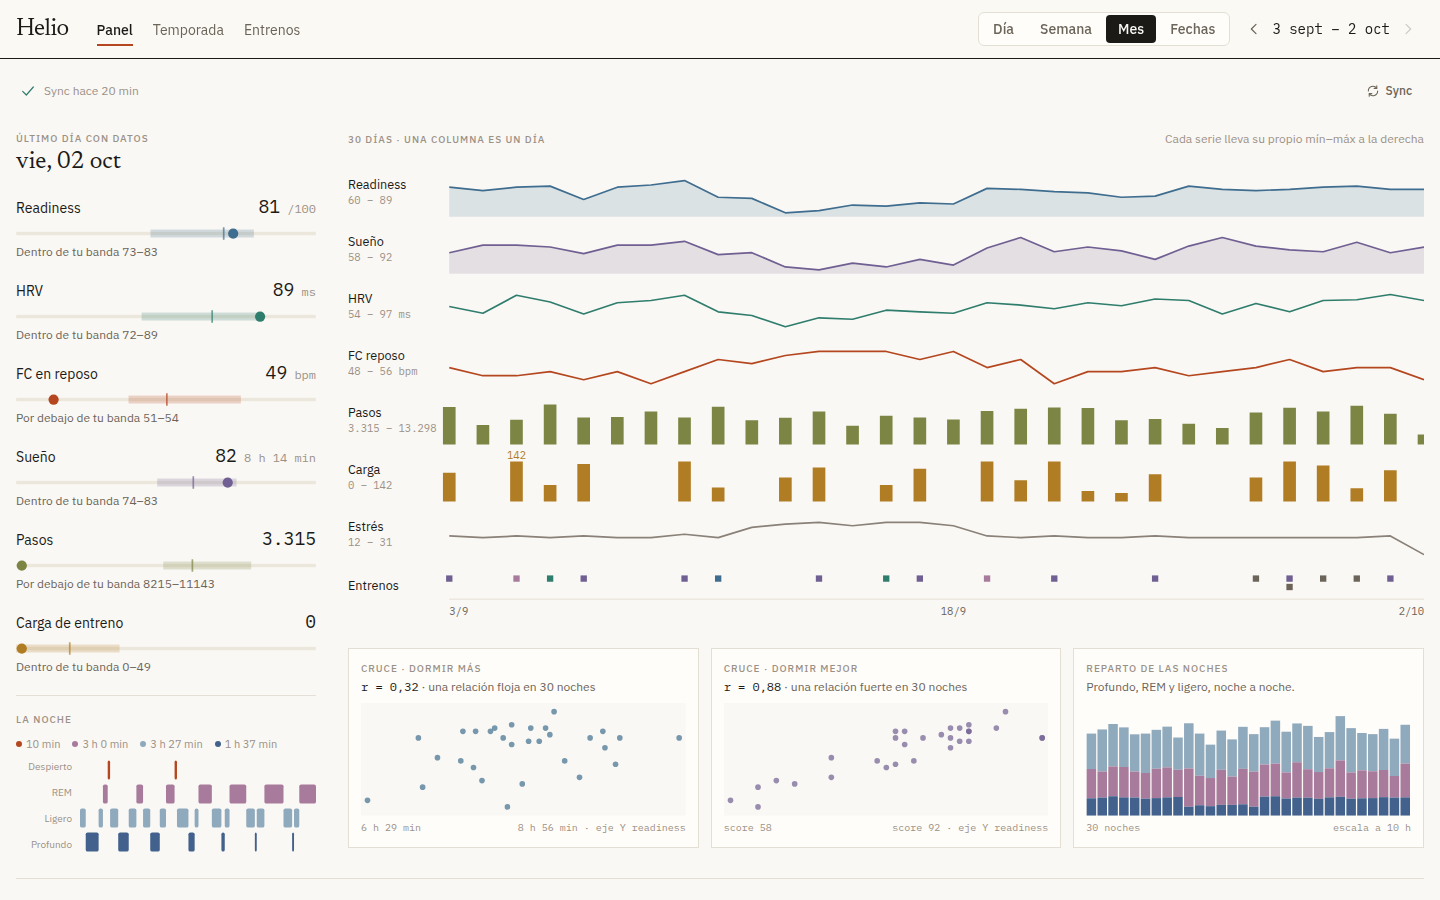
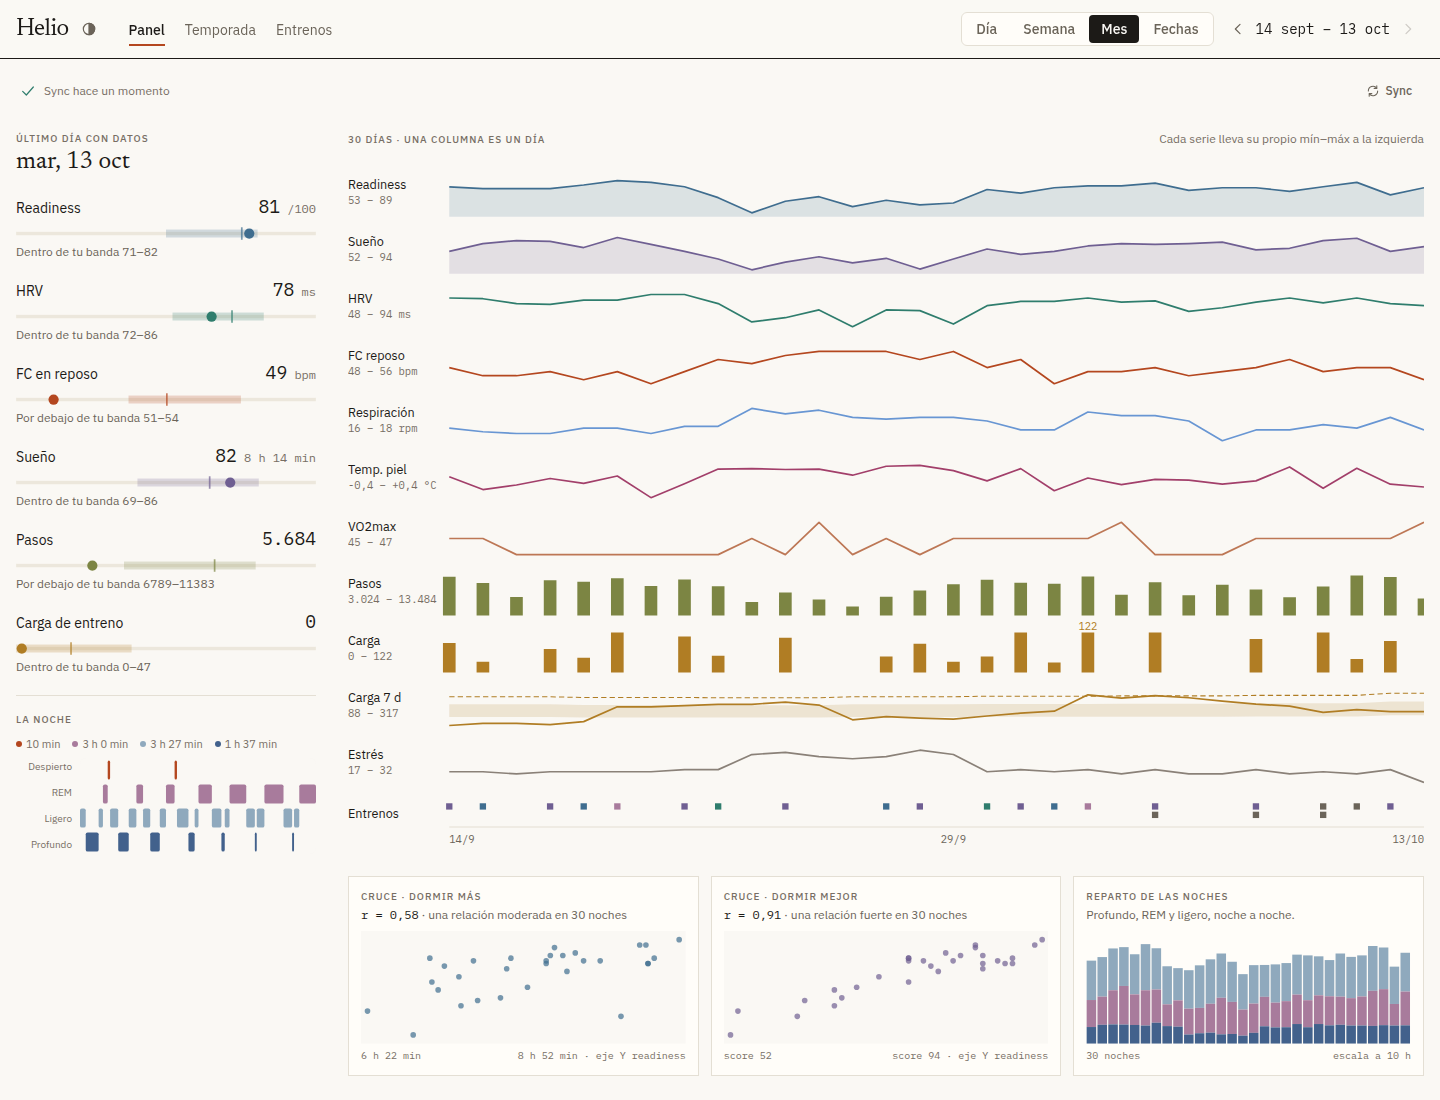
Añadir demo en vivo de zepp-dashboard y actualizar la captura del panel

diff --git a/projects/personal/zepp-dashboard/index.html b/projects/personal/zepp-dashboard/index.html
@@ -103,12 +103,22 @@
               <section id="panel">
                 <h2>Qué se ve en el panel</h2>
                 <p>Frecuencia cardíaca por minuto, sueño por fases (incluidas las siestas, que la respuesta de Zepp esconde en un bloque aparte), estrés, BioCharge separado en mental y físico, readiness, HRV, pasos y carga de entrenamiento. Los entrenamientos de fuerza se cruzan con Hevy para ver series y pesos sobre el pulso, y hay un mapa corporal con el volumen semanal por músculo.</p>
-                <img src="/assets/zepp-dashboard-panel.png" width="1440" height="900" loading="lazy" alt="Panel de zepp-dashboard con datos inventados del modo demo: indicadores del último día a la izquierda y siete series de 30 días sobre un mismo eje temporal.">
+                <img src="/assets/zepp-dashboard-panel.png" width="1440" height="1100" loading="lazy" alt="Panel de zepp-dashboard con datos inventados del modo demo: indicadores del último día a la izquierda y once series de 30 días sobre un mismo eje temporal.">
               </section>
 
               <section id="probarlo">
                 <h2>Probarlo</h2>
-                <p>El repositorio tiene un modo demo con noventa días de datos inventados sobre el backend y la web reales, sin necesidad de cuenta de Zepp. Más adelante quiero traer esa demo a esta web; de momento se puede arrancar en local siguiendo el README.</p>
+                <p>La demo de abajo es el proyecto real, el mismo backend en Python y la misma web, con noventa días de datos inventados. Corre entera en tu navegador, con Python compilado a WebAssembly: no hay servidor ni datos de nadie, y lo que cambies se pierde al recargar. Se actualiza sola con cada versión que publico en el repositorio.</p>
+                <figure class="demo-panel" data-demo>
+                  <div class="resource-panel-head">
+                    <div><p class="eyebrow">Demo en vivo</p><h3>Panel de zepp-dashboard</h3></div>
+                    <a href="/zepp-dashboard/" target="_blank" rel="noopener">Pantalla completa ↗</a>
+                  </div>
+                  <div class="demo-stage">
+                    <img src="/assets/zepp-dashboard-panel.png" width="1440" height="1100" loading="lazy" alt="">
+                    <button type="button" class="demo-start">Cargar la demo<small>unos 9 MB la primera vez · tarda unos segundos</small></button>
+                  </div>
+                </figure>
                 <p>Un aviso: usa una API no oficial y obtenida por ingeniería inversa. Puede cambiar o dejar de funcionar en cualquier momento, y solo debe usarse con tu propia cuenta y tus propios datos.</p>
               </section>
             </div>
@@ -128,5 +138,15 @@
       </div>
       <div class="shell footer-note"><span>Jorge Solán Morote</span><span>Portfolio personal · 2026</span></div>
     </footer>
+    <script>
+      // La demo descarga unos 9 MB (Python en WebAssembly): solo se carga si se pide.
+      document.querySelector("[data-demo] .demo-start")?.addEventListener("click", function () {
+        const frame = document.createElement("iframe");
+        frame.src = "/zepp-dashboard/";
+        frame.title = "Demo de zepp-dashboard con datos inventados";
+        this.closest(".demo-stage").replaceChildren(frame);
+        frame.focus();
+      });
+    </script>
   </body>
 </html>

diff --git a/styles.css b/styles.css
@@ -521,3 +521,20 @@ h3 { font-size: clamp(1.25rem, 1.8vw, 1.55rem); }
 @media (prefers-reduced-motion: reduce) {
   html { scroll-behavior: auto; }
 }
+
+/* Demo de zepp-dashboard: se carga al pulsar, en un iframe del mismo sitio. */
+.demo-panel { margin: 1.5rem 0 2rem; border: 1px solid var(--line); background: var(--paper-light); }
+.demo-panel .resource-panel-head h3 { margin: 0; font-size: 1.45rem; }
+.demo-panel .resource-panel-head a { color: var(--accent-dark); font-size: 0.85rem; white-space: nowrap; }
+.demo-stage { position: relative; height: min(80vh, 820px); background: var(--paper); }
+.demo-stage img { width: 100%; height: 100%; object-fit: cover; object-position: left top; opacity: 0.4; border: 0; background: none; }
+.demo-stage iframe { display: block; width: 100%; height: 100%; border: 0; }
+.demo-start {
+  position: absolute; top: 50%; left: 50%; transform: translate(-50%, -50%);
+  display: grid; gap: 0.3rem; padding: 0.95rem 1.5rem;
+  border: 1px solid var(--accent-dark); background: var(--accent); color: var(--paper-light);
+  font: 600 1rem/1.2 var(--sans); text-align: center; cursor: pointer;
+}
+.demo-start small { font-weight: 400; font-size: 0.76rem; opacity: 0.85; }
+.demo-start:hover { background: var(--accent-dark); }
+@media (max-width: 760px) { .demo-stage { height: 85vh; } }
